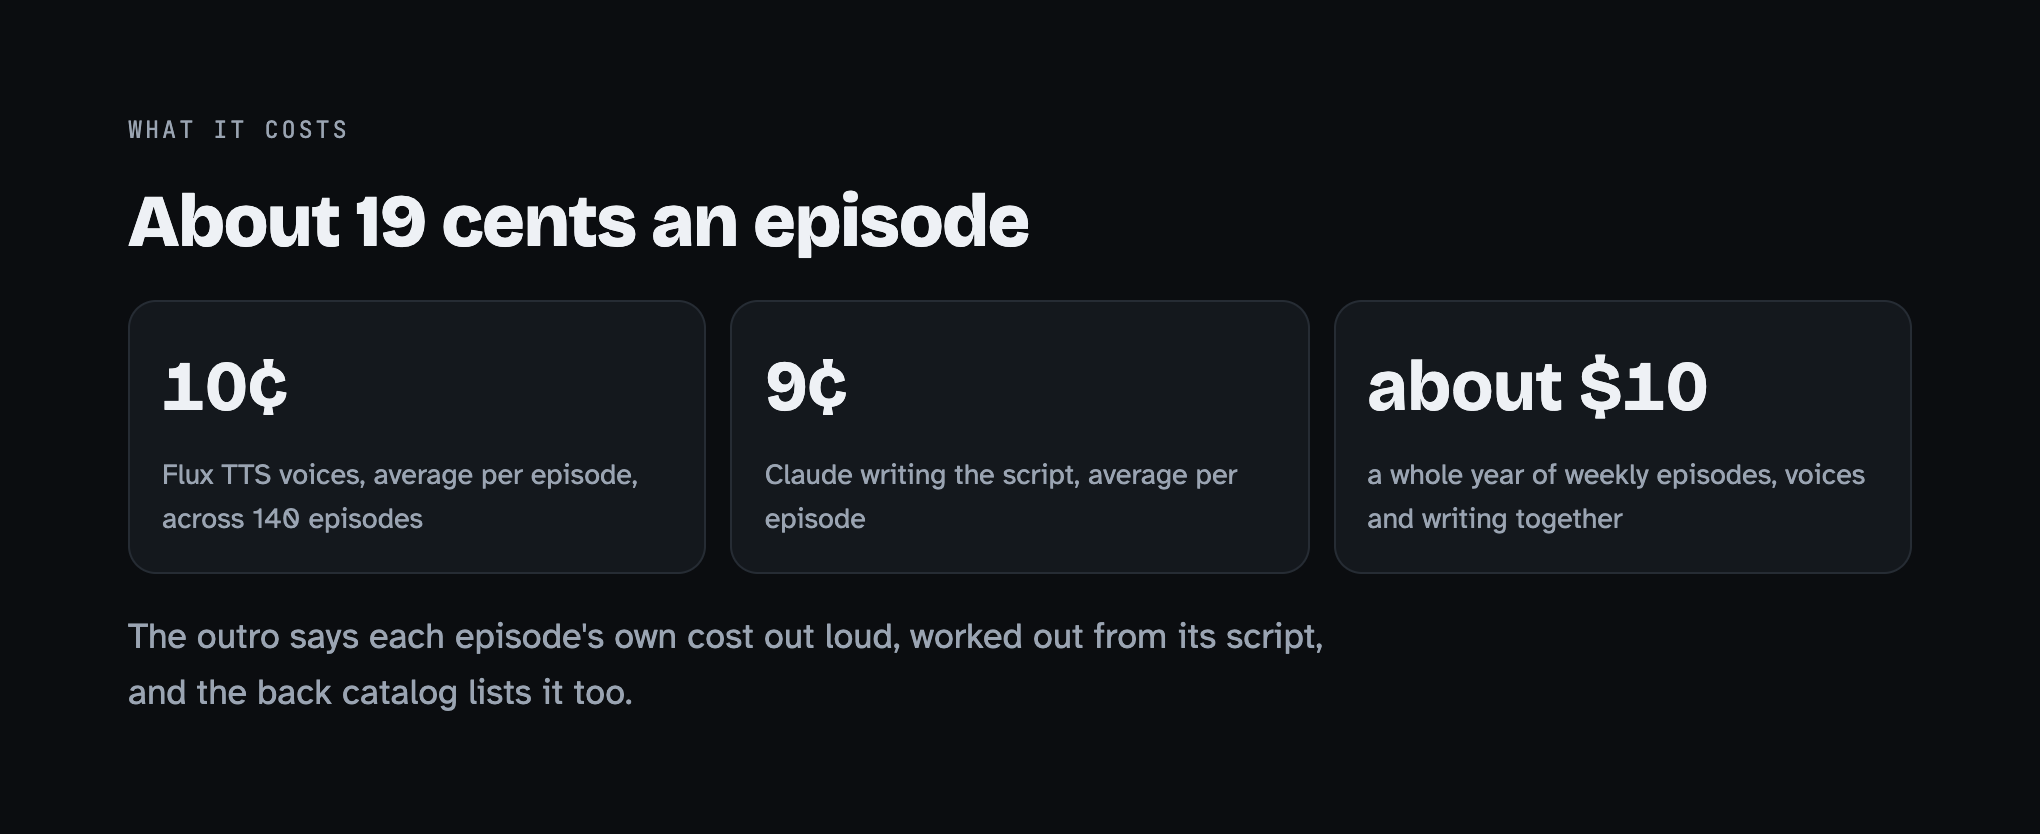
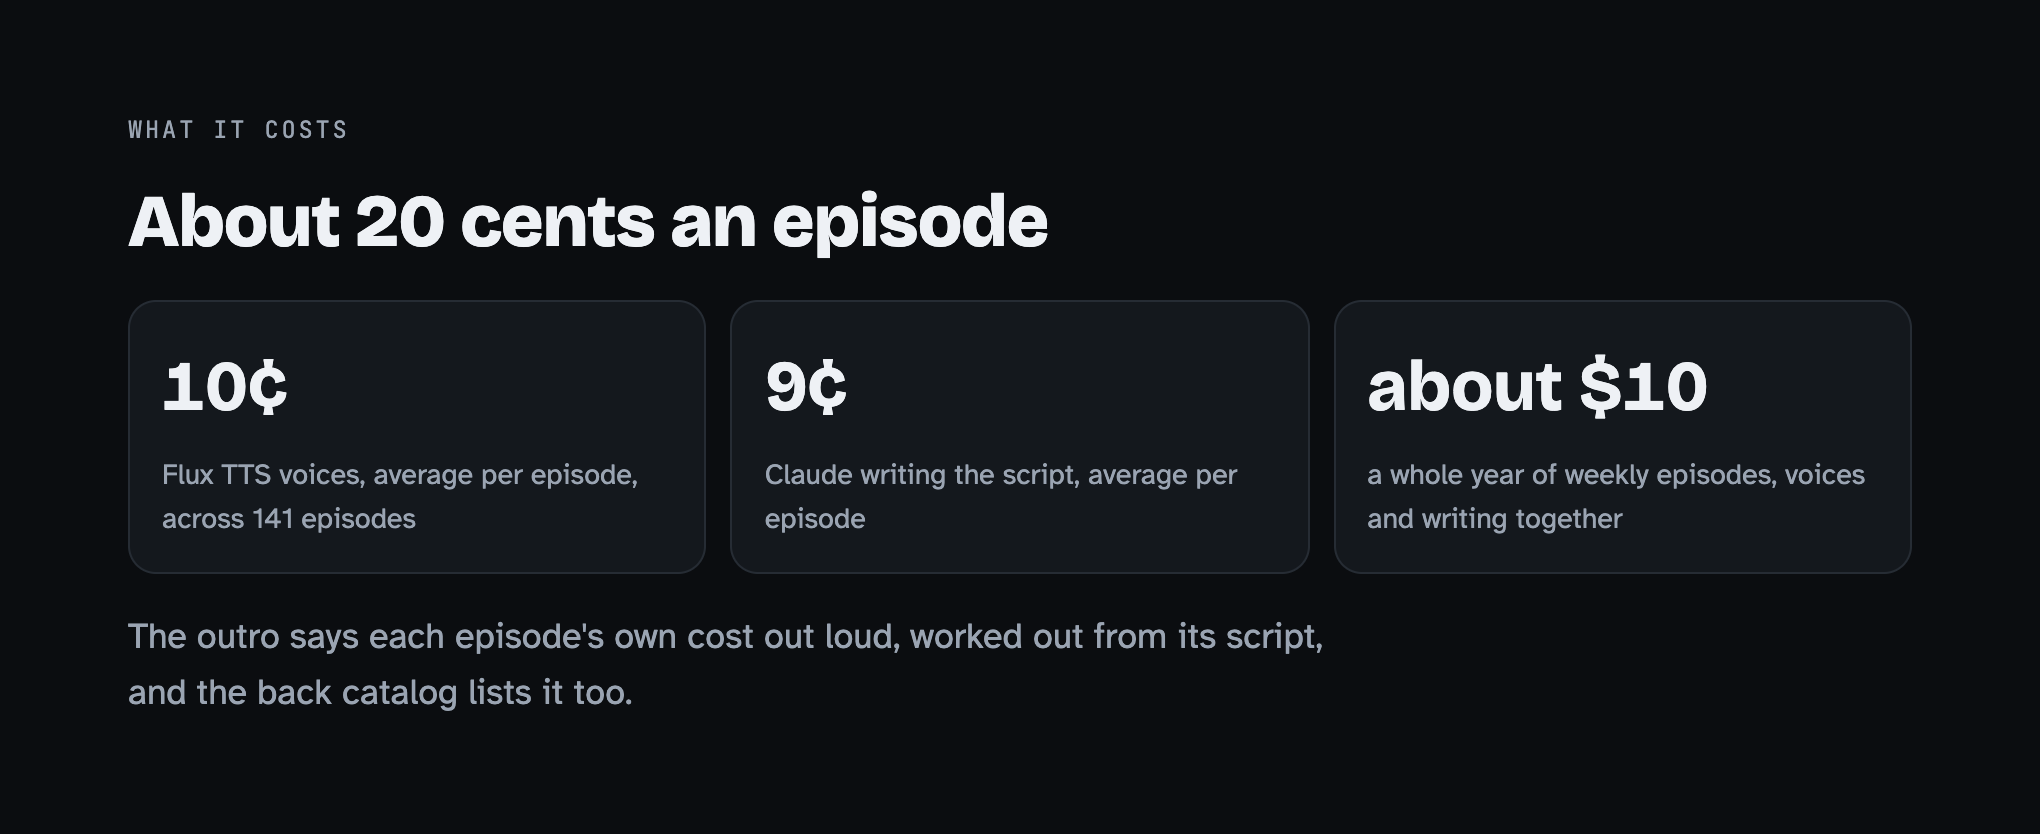
docs: 141 episodes and about 20 cents in the README and guide
Claude-Session: https://claude.ai/code/session_0157T3Ud9Uoxj9SAa4CajJv1

Changed region(s): [[0.1544, 0.2182, 0.525, 0.3118], [0.1235, 0.5923, 0.2162, 0.6547]]

diff --git a/docs/how-it-works.html b/docs/how-it-works.html
@@ -396,7 +396,7 @@
         <div class="row"><span>Script</span><span>The real field is called <span class="good">TTL</span> seconds.</span></div>
         <div class="row"><span>Heard</span><span>The real field is called <span class="bad">ttr</span> seconds.</span></div>
         <div class="retake">mismatch &rarr; retake 1 &rarr; heard "TTL" &rarr; keep</div>
-        <p class="muted" style="font-size:0.9rem">Across 139 checked episodes, it hears about 1 word in 340 differently from the script.</p>
+        <p class="muted" style="font-size:0.9rem">Across 141 checked episodes, it hears about 1 word in 340 differently from the script.</p>
       </div>
     </div>
   </article>
@@ -521,9 +521,9 @@
 
 <section class="cost" aria-labelledby="cost-h">
   <p class="eyebrow">What it costs</p>
-  <h2 id="cost-h">About 19 cents an episode</h2>
+  <h2 id="cost-h">About 20 cents an episode</h2>
   <div class="coins">
-    <div class="coin"><b>10&cent;</b><small>Flux TTS voices, average per episode, across 140 episodes</small></div>
+    <div class="coin"><b>10&cent;</b><small>Flux TTS voices, average per episode, across 141 episodes</small></div>
     <div class="coin"><b>9&cent;</b><small>Claude writing the script, average per episode</small></div>
     <div class="coin"><b>about $10</b><small>a whole year of weekly episodes, voices and writing together</small></div>
   </div>

diff --git a/README.md b/README.md
@@ -5,7 +5,7 @@ it to you. Every Tuesday at 5am Pacific, a Fly machine pulls last week's entries
 script, six Deepgram Flux TTS voices perform it, and Deepgram speech-to-text checks every line
 before it ships. Nobody records anything (the closest thing to a studio is a Python script).
 
-There are 140 episodes so far, going back to 2020. They run one to five minutes, and a typical
+There are 141 episodes so far, going back to 2020. They run one to six minutes, and a typical
 week comes in around two.
 
 Listen: [dg-devrel-deepgram-changelog.fly.dev](https://dg-devrel-deepgram-changelog.fly.dev) ·
@@ -14,7 +14,7 @@ Listen: [dg-devrel-deepgram-changelog.fly.dev](https://dg-devrel-deepgram-change
 
 This repo is the code, not the archive. A clone has no audio at all: MP3s are gitignored, and the
 only episode in `episodes/` is `2026-09-22`, kept as a worked example (its script, show notes,
-chapters, transcript, and readback report, but no MP3). All 140 episodes live on the site's volume
+chapters, transcript, and readback report, but no MP3). All 141 episodes live on the site's volume
 and play from the links above.
 
 ## From Changelog To Your Queue
@@ -127,7 +127,7 @@ Episodes the cron made only exist on the volume. The machine reads `DEEPGRAM_API
 `ANTHROPIC_API_KEY` from Fly secrets. Locally, set `ART_PYTHON` if your default Python doesn't have
 Pillow.
 
-**Storage:** an episode takes about 1.5 MB on the volume (a 64 kbps MP3 plus art and JSON). All 140
+**Storage:** an episode takes about 1.5 MB on the volume (a 64 kbps MP3 plus art and JSON). All 141
 use about 175 MB of the 1 GB volume, and new weeks add roughly 75 MB a year. The server deletes its
 raw paragraph audio (`.cache/tts`) after each run. Locally it's kept, so editing a script only
 re-renders the paragraphs you changed.
@@ -170,9 +170,9 @@ product has a changelog that nobody reads either, here's the swap.
    `CRON_TZ` if Pacific isn't your morning. Set the two keys with `fly secrets set`, run
    `backfill_plan.py`, then `stage_site.py` and `fly deploy`.
 
-What it costs, going by the 140 episodes on the live
+What it costs, going by the 141 episodes on the live
 [back catalog](https://dg-devrel-deepgram-changelog.fly.dev/back-catalog): about 10 cents of Flux
-TTS and 9 cents of Claude per episode, so roughly 19 cents a week, or about $10 for a year of
+TTS and 9 cents of Claude per episode, so roughly 20 cents a week, or about $10 for a year of
 Tuesdays. A backfill costs the same per episode, so check the week count in
 `research/backfill-review.html` before you run `--backfill`.
 
